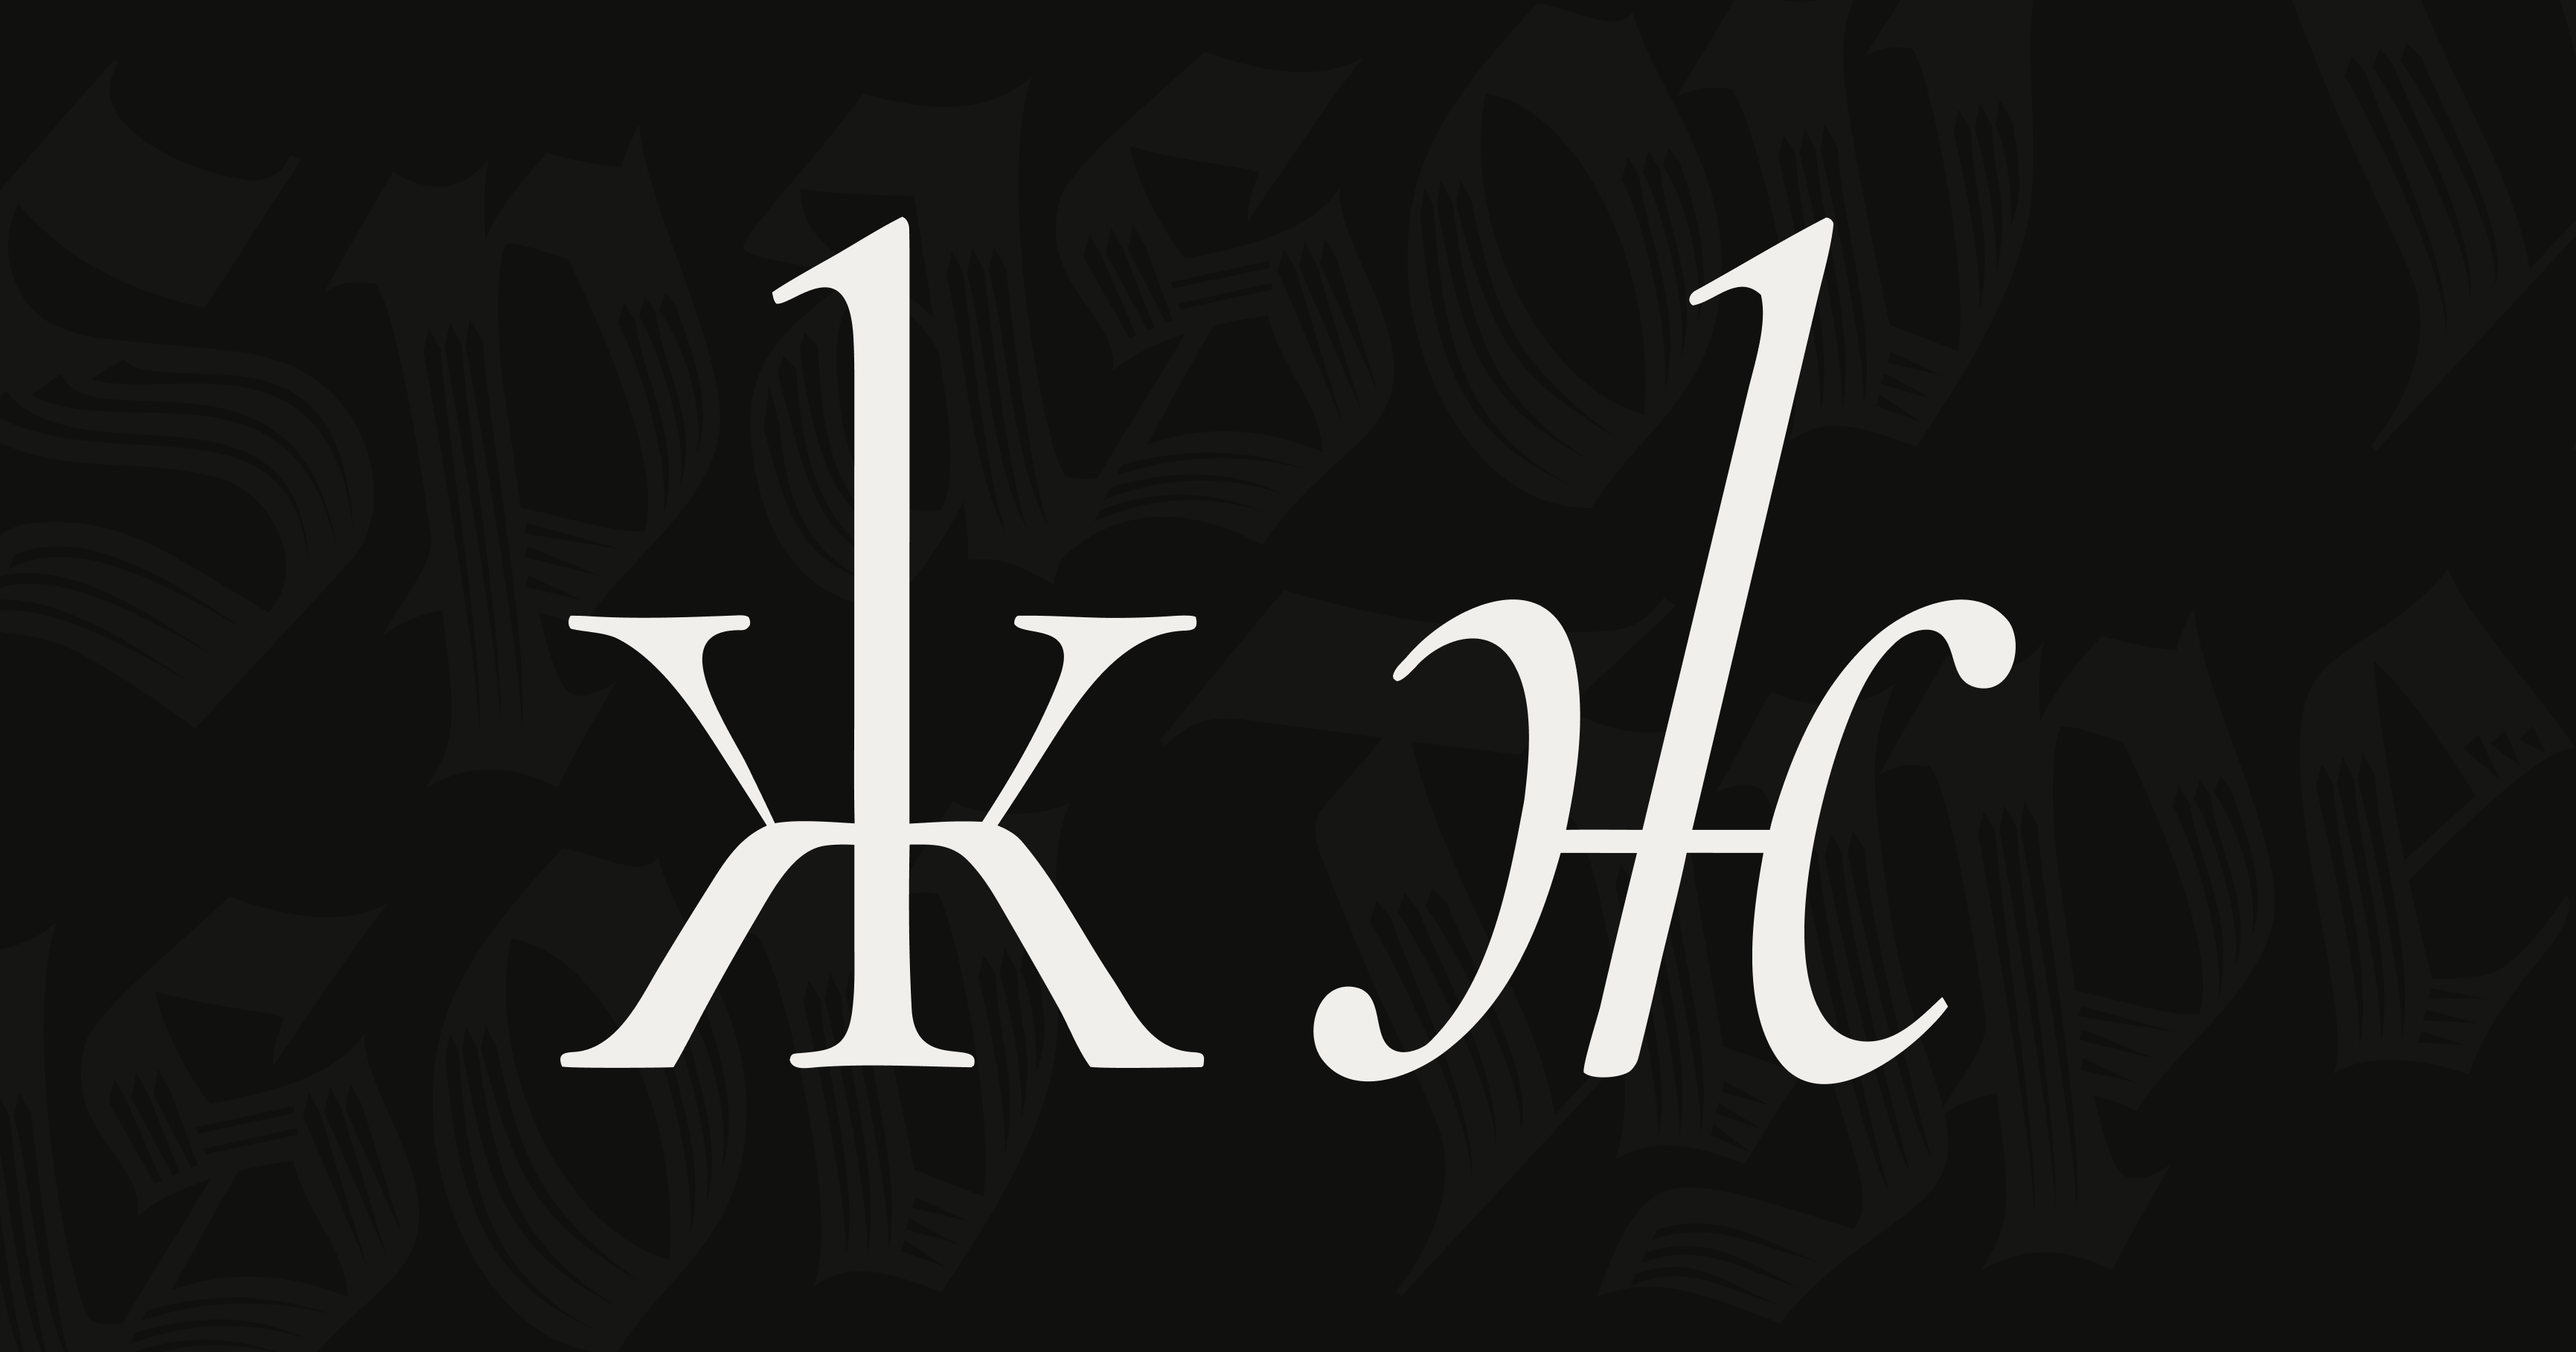
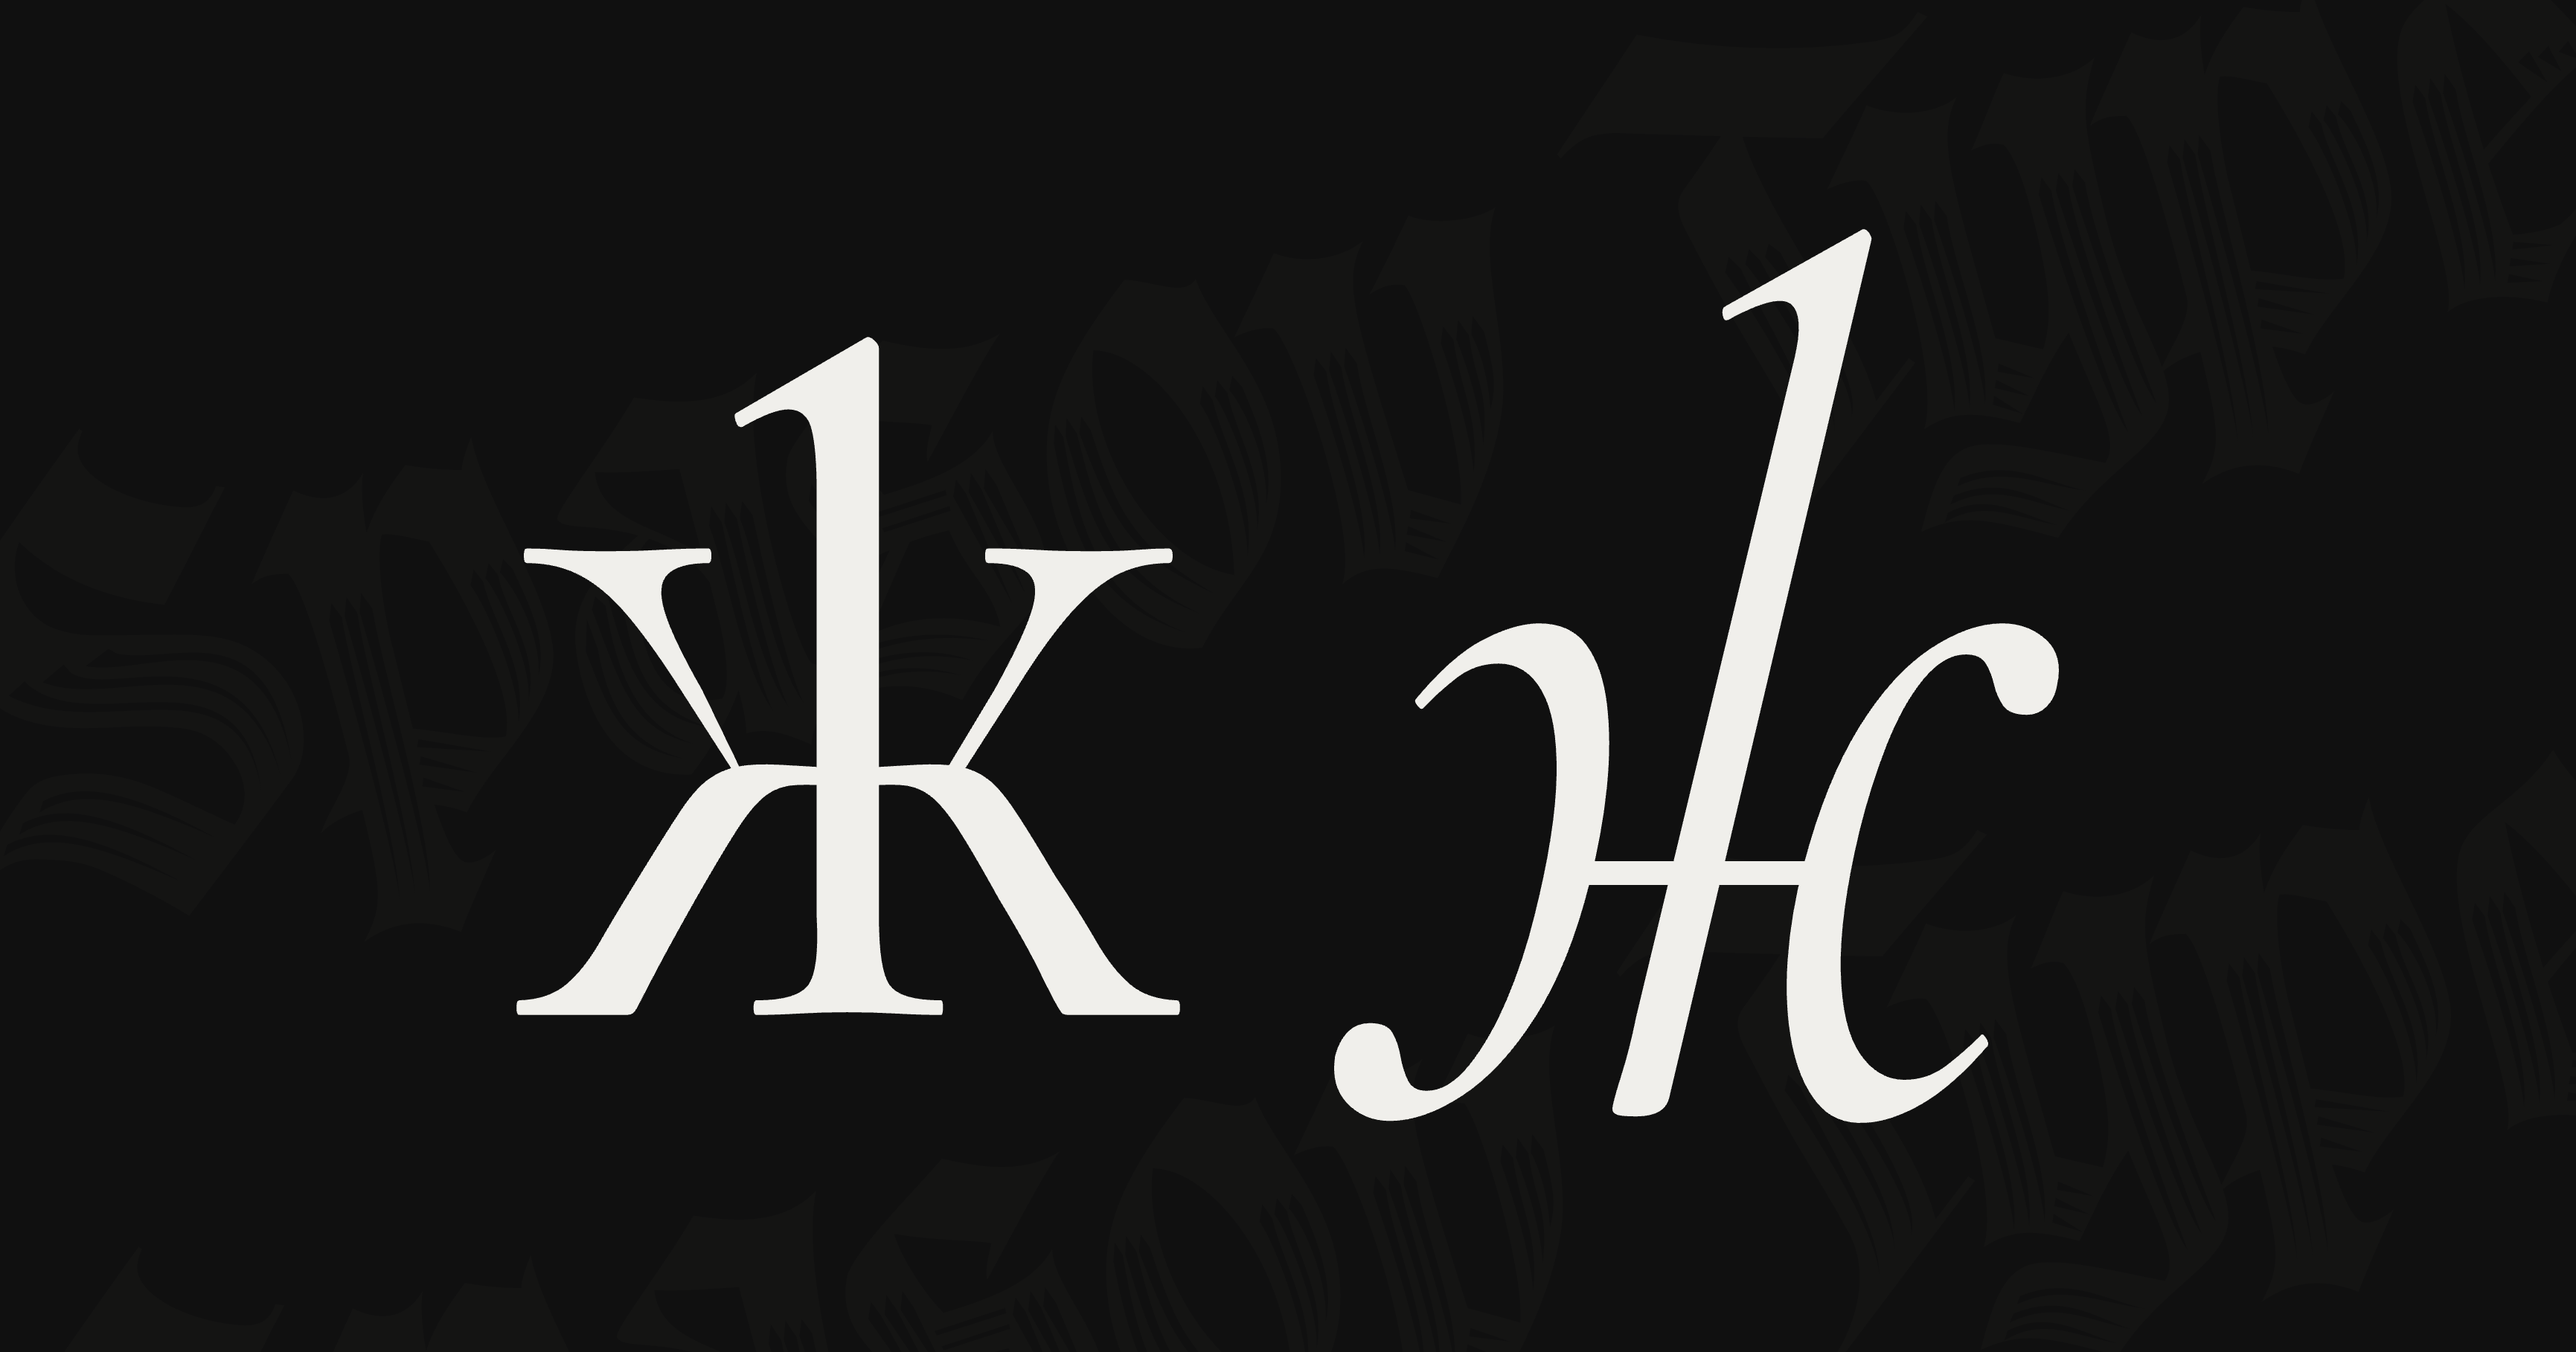
Refresh sharing specimen with distributed Regular outlines

diff --git a/website/index.html b/website/index.html
@@ -11,11 +11,11 @@
   <meta property="og:type" content="website">
   <meta property="og:title" content="Lirena — Кирилица с характер.">
   <meta property="og:description" content="Bulgarian Cyrillic adaptation of Instrument Serif.">
-  <meta property="og:image" content="https://spasovtype.com/assets/social-cover.png">
+  <meta property="og:image" content="https://spasovtype.com/assets/social-cover.png?v=0.5.0">
   <meta property="og:image:width" content="3462"><meta property="og:image:height" content="1818">
   <meta property="og:image:alt" content="Lirena — Regular and Italic Bulgarian ж. Cyrillic adaptation by Spasov Type">
   <meta name="robots" content="index, follow, max-image-preview:large">
-  <meta name="twitter:image" content="https://spasovtype.com/assets/social-cover.png">
+  <meta name="twitter:image" content="https://spasovtype.com/assets/social-cover.png?v=0.5.0">
   <meta name="twitter:card" content="summary_large_image">
   <meta name="twitter:title" content="Lirena | Instrument Serif with Bulgarian Cyrillic">
   <meta name="twitter:description" content="Bulgarian Cyrillic adaptation of Instrument Serif. Cyrillic adaptation by Stiliyan Spasov / Spasov Type.">

diff --git a/scripts/render_social_cover.py b/scripts/render_social_cover.py
@@ -1,0 +1,16 @@
+"""Generate a vector social specimen from actual distributed font outlines.
+Rasterize the output SVG at its native 3462×1818 size to update social-cover.png.
+"""
+from pathlib import Path
+from fontTools.ttLib import TTFont
+from fontTools.pens.svgPathPen import SVGPathPen
+from fontTools.pens.boundsPen import BoundsPen
+import re
+r=Path(__file__).resolve().parent.parent; width,height=3462,1818
+logo=(r/'website/assets/spasov-type-logo.svg').read_text();paths=re.search(r'<svg[^>]*>(.*)</svg>',logo,re.S).group(1);paths=re.sub(r'fill="[^"]*"','fill="#141413"',paths)
+parts=[f'<svg xmlns="http://www.w3.org/2000/svg" width="{width}" height="{height}" viewBox="0 0 {width} {height}"><rect width="{width}" height="{height}" fill="#101010"/>',f'<g transform="translate(-180 640) rotate(-14) scale(5.6)">{paths}</g>',f'<g transform="translate(-100 1740) rotate(-14) scale(5.6)">{paths}</g>']
+for style,cx in [('Regular',1140),('Italic',2280)]:
+ f=TTFont(r/f'fonts/Lirena-{style}.ttf');gs=f.getGlyphSet();n=f.getBestCmap()[ord('ж')];p=SVGPathPen(gs);b=BoundsPen(gs);gs[n].draw(p);gs[n].draw(b);x1,y1,x2,y2=b.bounds;s=1.23;tx=cx-(x1+x2)*s/2;ty=height/2+(y1+y2)*s/2
+ parts.append(f'<path d="{p.getCommands()}" fill="#F0EFEB" transform="translate({tx:.4f} {ty:.4f}) scale({s} {-s})"/>')
+parts.append('</svg>');svg=''.join(parts);output=r/'build/social-cover.svg'; output.parent.mkdir(exist_ok=True); output.write_text(svg)
+print('Actual Regular 0.500 and original Italic 0.300 outlines, shared 1230-unit em scale.')
